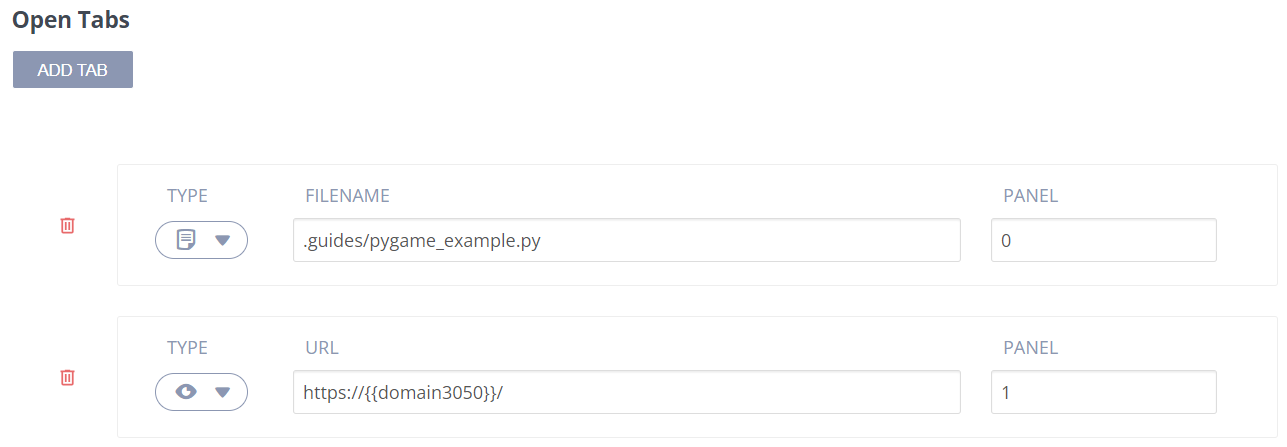
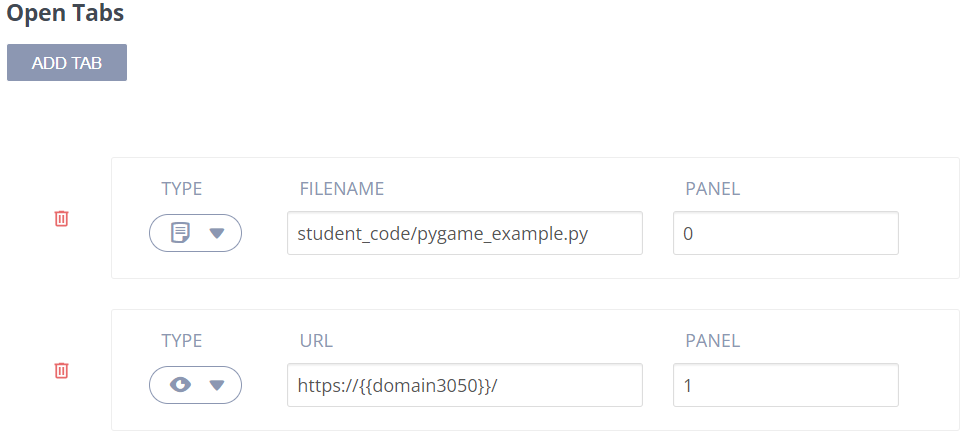
QA edits

diff --git a/.guides/helper_script_straight_points.py b/.guides/helper_script_straight_points.py
@@ -1,19 +1,19 @@
 import os, shutil, sys
 
 # path to student file
-student_file = "/home/codio/workspace/code/functions/lab_challenge.py" 
+student_file = "/home/codio/workspace/code/functions/lab_challenge.py"
 
 # new location for testing
-new_location = "/home/codio/workspace/.guides/secure/unit_tests/functions" 
+new_location = "/home/codio/workspace/.guides/secure/unit_tests/functions"
 
 # copy student file to the new location
 shutil.copy(student_file, new_location)
 
 # run the code test on student file
-result = os.system("python3 .guides/secure/unit_tests/functions/lab_challenge_test.py") 
+result = os.system("python3 .guides/secure/unit_tests/functions/lab_challenge_test.py")
 
 # Return the exit code to the Guide for the red "X" or green checkmark
 if result == 0:
-    sys.exit(0)
+  sys.exit(0)
 else:
-    sys.exit(1)
+  sys.exit(1)

diff --git a/.guides/content/X-Server-2ff2/Tkinter-c1eb.md b/.guides/content/X-Server-2ff2/Tkinter-c1eb.md
@@ -17,12 +17,12 @@ When installation completes, select "Reload preview" button (two blue arrows ico
 Directly execute the Python script that uses Tkinter using the `TRY IT` button.
 
 ```bash
-{try it | terminal}(python3 .guides/tkinter_example.py)
+{try it | terminal}(python3 student_code/tkinter_example.py)
 ```
 
 After clicking `TRY IT`, graphical output should be visible, and you might need to refresh the output using the two blue arrows icon.
 
-{try it | terminal}(python3 .guides/tkinter_example.py)
+{try it | terminal}(python3 student_code/tkinter_example.py)
 
 ---
 <details>
@@ -30,7 +30,7 @@ After clicking `TRY IT`, graphical output should be visible, and you might need 
      <b>Launching command from terminal window</b>
   </summary>
 
-In this updated setup, we use the terminal to run Python scripts, which differs from the previous method of using `TRY IT` buttons. This change enhances the learning experience for two main reasons:
+In this updated setup, we use the terminal to run Python scripts, which differs from the previous method of using <code>TRY IT</code> buttons. This change enhances the learning experience for two main reasons:
 
 1. **Error Monitoring:** Running scripts directly in the terminal allows for immediate and clear visibility of any errors or issues, facilitating easier debugging and understanding of your code.
 
@@ -38,7 +38,7 @@ In this updated setup, we use the terminal to run Python scripts, which differs 
 
 An alternative is to run the script in the background, which will not open a terminal window or include error feedback.
 ```bash
-{try it | background}(python3 .guides/turtle_example.py)
+{try it | background}(python3 student_code/tkinter_example.py)
 ```
 
 </details>

diff --git a/.guides/content/X-Server-2ff2/Turtle-Python-dd20.md b/.guides/content/X-Server-2ff2/Turtle-Python-dd20.md
@@ -17,19 +17,19 @@ When installation completes, select "Reload preview" button (two blue arrows ico
 Directly execute the Python script that incorporates Turtle graphics using the `TRY IT` button:
 
 ```bash
-{try it | terminal}(python3 .guides/turtle_example.py)
+{try it | terminal}(python3 student_code/turtle_example.py)
 ```
 
 Clicking `TRY IT` should produce graphical output, which may require refreshing (via the two blue arrows icon).
 
-{try it | terminal}(python3 .guides/turtle_example.py)
+{try it | terminal}(python3 student_code/turtle_example.py)
 
 ---
 <details>
   <summary>
      <b>Launching command from terminal window</b>
   </summary>
-In this updated setup, we use the terminal to run Python scripts, which differs from the previous method of using `TRY IT` buttons. This change enhances the learning experience for two main reasons:
+In this updated setup, we use the terminal to run Python scripts, which differs from the previous method of using <code>TRY IT</code> buttons. This change enhances the learning experience for two main reasons:
 
 1. **Error Monitoring:** Running scripts directly in the terminal allows for immediate and clear visibility of any errors or issues, facilitating easier debugging and understanding of your code.
 
@@ -37,7 +37,7 @@ In this updated setup, we use the terminal to run Python scripts, which differs 
 
 An alternative is to run the script in the background, which will not open a terminal window or include error feedback.
 ```bash
-{try it | background}(python3 .guides/turtle_example.py)
+{try it | background}(python3 student_code/turtle_example.py)
 ```
 
 </details>

diff --git a/.guides/content/X-Server-2ff2/Pygame-4638.md b/.guides/content/X-Server-2ff2/Pygame-4638.md
@@ -17,19 +17,19 @@ When installation completes, select "Reload preview" button (two blue arrows ico
 Execute the Pygame Python script directly using the `TRY IT` button:
 
 ```bash
-{try it | terminal}(python3 .guides/pygame_example.py)
+{try it | terminal}(python3 student_code/pygame_example.py)
 ```
 
 Graphical output should appear upon clicking `TRY IT`, with the option to refresh if necessary (using the two blue arrows icon).
 
-{try it | terminal}(python3 .guides/pygame_example.py)
+{try it | terminal}(python3 student_code/pygame_example.py)
 
 ---
 <details>
   <summary>
      <b>Launching command from terminal window</b>
   </summary>
-In this updated setup, we use the terminal to run Python scripts, which differs from the previous method of using `TRY IT` buttons. This change enhances the learning experience for two main reasons:
+In this updated setup, we use the terminal to run Python scripts, which differs from the previous method of using <code>TRY IT</code> buttons. This change enhances the learning experience for two main reasons:
 
 1. **Error Monitoring:** Running scripts directly in the terminal allows for immediate and clear visibility of any errors or issues, facilitating easier debugging and understanding of your code.
 
@@ -37,7 +37,7 @@ In this updated setup, we use the terminal to run Python scripts, which differs 
 
 An alternative is to run the script in the background, which will not open a terminal window or include error feedback.
 ```bash
-{try it | background}(python3 .guides/turtle_example.py)
+{try it | background}(python3 student_code/pygame_example.py)
 ```
 
 </details>

diff --git a/.guides/content/Partial-Points-a4bf/Custom-Test---Outside-Secure-Folder-5c0b.md b/.guides/content/Partial-Points-a4bf/Custom-Test---Outside-Secure-Folder-5c0b.md
@@ -40,7 +40,7 @@ Design each test to evaluate specific aspects of students' code:
 
 Instead of a binary pass/fail outcome, use `send_partial_v2` to send a detailed result back to Codio for Advanced code tests with partial points enabled:
 
-- **Result Submission**: Send the accumulated `points` and `feedback` to Codio [with an HTTP request](open_file .guides/partial_points_custom.py panel=0 ref="send results to Codio" count=3).
+- **Result Submission**: Send the accumulated `points` and `feedback` to Codio using the [Codio library call](open_file .guides/partial_points_custom.py panel=0 ref="send results to Codio" count=2)  to make an HTTP request.
 - **Formatting Feedback**: Decide on the feedback format (`FORMAT_V2_MD`, `FORMAT_V2_HTML`, or `FORMAT_V2_TXT`) and ensure it is consistently used throughout the test script.
 
 [Remove highlighting](open_file .guides/partial_points_custom.py panel=0)

diff --git a/.guides/content/Custom-Test-Script-c39c/Adding-the-Assessment-1406.md b/.guides/content/Custom-Test-Script-c39c/Adding-the-Assessment-1406.md
@@ -15,7 +15,7 @@ Add a `Name` to your assessment. This will look like a "title" for the test. Lea
 ![General Section](.guides/img/assessment-general.png)
 
 ## The Execution Section
-Leave the `LANGUAGE TYPE` as `custom`. In the field `COMMAND` write the command to launch your custom grading script, or simply drag the file into the field from the file tree. 
+Leave the `LANGUAGE TYPE` as `Custom`. In the field `COMMAND` write the command to launch your custom grading script, or simply drag the file into the field from the file tree. 
 ![Execution Section](.guides/img/assessment-execution.png)
 
 ## The Grading Section

diff --git a/.guides/content/Custom-Test-Script-c39c/The-Custom-Script-ada6.md b/.guides/content/Custom-Test-Script-c39c/The-Custom-Script-ada6.md
@@ -7,7 +7,7 @@
 |||important
 ## Student Access Restrictions
 
-When provided access to the file tree, students students can navigate through files and folders in the workspace,. 
+When provided access to the file tree, students can navigate through files and folders in the workspace. 
 
 The `.guides` folder in its contents will **not** be available to them in the file tree, though students **can** access the `.guides` folder and its contents by navigating from the terminal.
 

diff --git a/.guides/content/Unit-Test-aa39/The-Unit-Test-8138.md b/.guides/content/Unit-Test-aa39/The-Unit-Test-8138.md
@@ -34,7 +34,7 @@
 
 ## 3. Test Execution & Results
 
-[See Providing Feedback](open_file .guides/secure/test_circle_area.py panel=0 ref="if __name__" count=2)
+[Executes the Test](open_file .guides/secure/test_circle_area.py panel=0 ref="unittest.main" count=2)
 
 - **Execution and Outcome**:
   - The `unittest.main()` function is called to run all the test methods.
